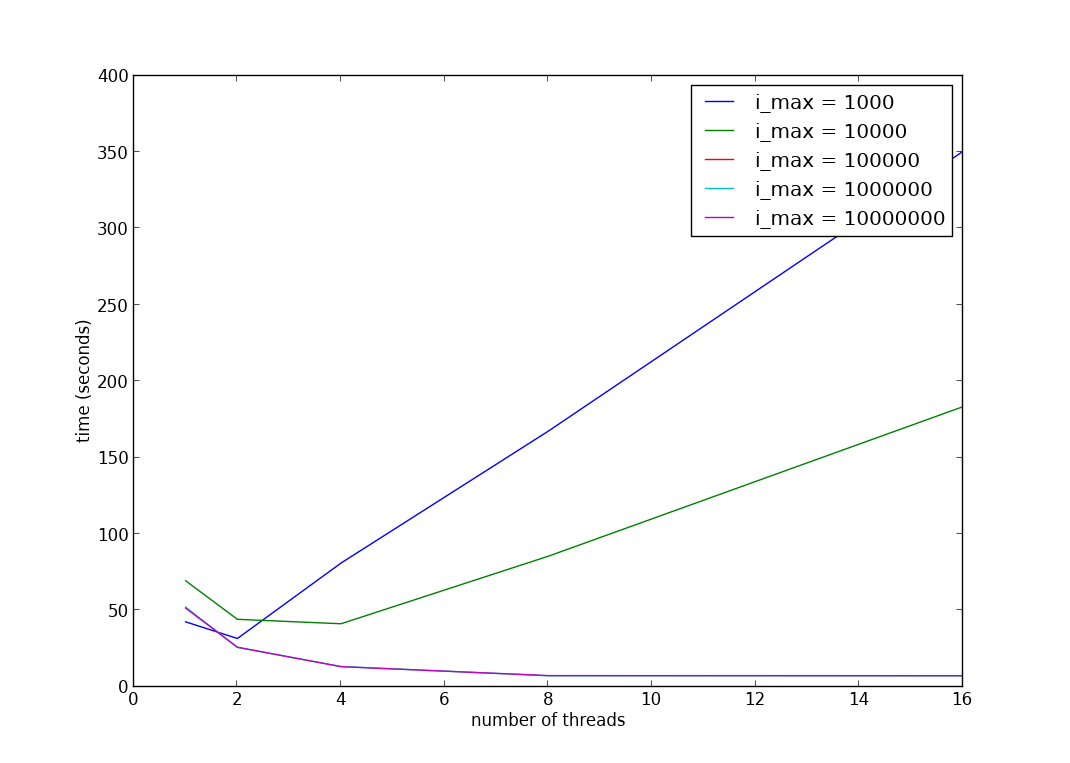
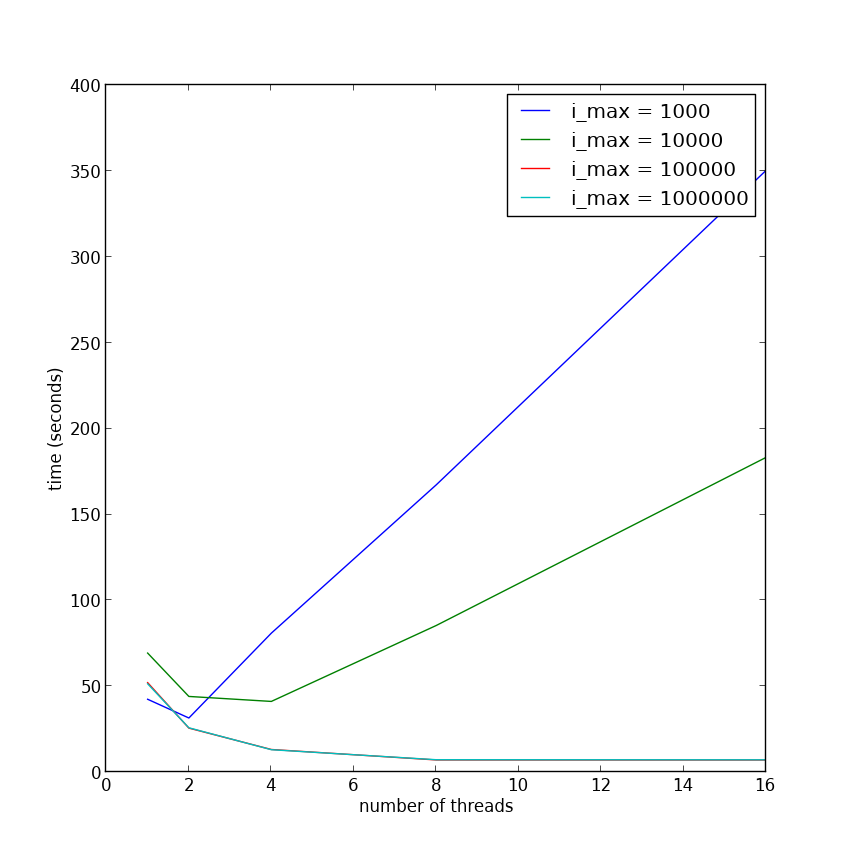
add report and update plotting script

Changed region(s): [[0.0611, 0.0904, 0.9166, 0.9646], [0.1833, 0.8139, 0.2139, 0.844]]

diff --git a/assign1_1-framework/report.tex b/assign1_1-framework/report.tex
@@ -1,0 +1,103 @@
+\documentclass[a4paper]{article}
+
+\usepackage[english]{babel}
+\usepackage{amsmath}
+\usepackage{graphicx}
+
+\author{Maarten de Jonge}
+\date{\today}
+\title{Concurrency and Parallel Programming \\
+\large{Test results on DAS-4}}
+
+\begin{document}
+\maketitle
+
+\section*{Experimental setup}
+The wave equation has been straightforwardly implemented. When $n_p$ points on the
+wave are being simulated on $n_t$ threads, each thread handles a slice of
+roughly $\frac{n_p}{n_t}$ points, with some variation due to the division not
+being guaranteed to be exact.
+
+The simulation has been run on the DAS-4 computer with various values for each
+parameter; The number of simulated points is tested at $1.000, 10.000,
+1.000.000, 10.000.000$ (with dots added to increase readability), and each of
+the values has been tested with 1, 2, 4, 8 and 16 threads. In each case, a
+suitable value for the number of time steps has been selected such that the
+total time taken with 1 thread is somewhere around 50 seconds, to allow for
+decently accurate benchmarking without getting bored. These values can be seen
+in table \ref{table:t}.
+
+\begin{table}[htbp]
+    \centering
+    \begin{tabular}{|l|l|}
+        \hline
+        number of points & number of iterations \\
+        \hline
+        $10^3$ & $1e6$ \\
+        $10^4$ & $5e5$ \\
+        $10^6$ & $5e3$ \\
+        $10^7$ & $5e2$ \\
+        \hline
+    \end{tabular}
+    \caption{The number of points with their chosen number of timesteps}
+    \label{table:t}
+\end{table}
+
+\section*{Results}
+\begin{figure}[htbp]
+    \centering
+    \includegraphics[width=\textwidth]{results.png}
+    \caption{The test results. "i\_max" refers to the amount of points
+    simulated on the wave.}
+    \label{fig:results}
+\end{figure}
+
+\begin{table}[htbp]
+    \centering
+    \begin{tabular}{|l|l|l|l|l|}
+        \hline
+        i\_max    & t\_max   & num\_threads & time    & normalized \\
+        \hline
+        1000     & 1000000 & 1           & 42.4294 & $4.24294e-08$ \\
+        1000     & 1000000 & 2           & 31.5108 & $3.15108e-08$ \\
+        1000     & 1000000 & 4           & 80.9137 & $8.09137e-08$ \\
+        1000     & 1000000 & 8           & 167.284 & $1.67284e-07$ \\
+        1000     & 1000000 & 16          & 350.395 & $3.50395e-07$ \\
+        10000    & 500000  & 1           & 69.3228 & $9.83256e-08$ \\
+        10000    & 500000  & 2           & 44.066  &  $6.2502e-08$ \\
+        10000    & 500000  & 4           & 41.1647 & $5.83869e-08$ \\
+        10000    & 500000  & 8           & 85.3845 & $1.21107e-07$ \\
+        10000    & 500000  & 16          & 183.268 & $2.59943e-07$ \\
+        1000000  & 5000    & 1           & 52.108  & $7.39086e-08$ \\
+        1000000  & 5000    & 2           & 25.6232 & $3.63433e-08$ \\
+        1000000  & 5000    & 4           & 13.1806 & $1.86951e-08$ \\
+        1000000  & 5000    & 8           & 7.08639 & $1.00511e-08$ \\
+        1000000  & 5000    & 16          & 7.06076 & $1.00148e-08$ \\
+        10000000 & 500     & 1           & 51.4277 & $7.29436e-08$ \\
+        10000000 & 500     & 2           & 25.8168 & $3.66179e-08$ \\
+        10000000 & 500     & 4           & 13.0537 & $1.85151e-08$ \\
+        10000000 & 500     & 8           & 7.21982 & $1.02404e-08$ \\
+        10000000 & 500     & 16          & 7.16489 & $1.01625e-08$ \\
+        \hline
+    \end{tabular}
+    \caption{The raw test data, where ``i\_max'' is the number of simulated points
+    on the wave and ``t\_max'' is the amount of iterations.}
+    \label{table:results}
+\end{table}
+
+Figure \ref{fig:results} shows the results. When simulating 1000 or 10000
+points, there is an initial speedup when increasing the amount of threads, but
+after a certain point any additional threads will dramatically lower
+performance. The higher amounts of points scale very well with the amount of
+threads, up to 8 threads (which is the amount of cores available on system).
+Scaling it up to 16 threads does not noticably improve performance, although it
+doesn't degrade it either. 
+
+\section*{Conclusion}
+There appears to be some overheard to the use of threads; they can offer a
+significant speedup for the tested scenario, but only when each thread has a
+high enough workload. It seems that when there's too little data to simulate per
+thread, the work done by the thread will not be worth the incurred overhead,
+leading to a (quite severe) degradation of performance.
+
+\end{document}

diff --git a/assign1_1-framework/plot_data.py b/assign1_1-framework/plot_data.py
@@ -18,12 +18,6 @@ xlabel('number of threads')
 ylabel('time (seconds)')
 #label('i_max = 10000')
 
-value = data[:, i_max] == 100000;
-plot( data[value, num_threads], data[value, time])
-xlabel('number of threads')
-ylabel('time (seconds)')
-#label('i_max = 100000')
-
 value = data[:, i_max] == 1000000;
 plot( data[value, num_threads], data[value, time])
 xlabel('number of threads')
